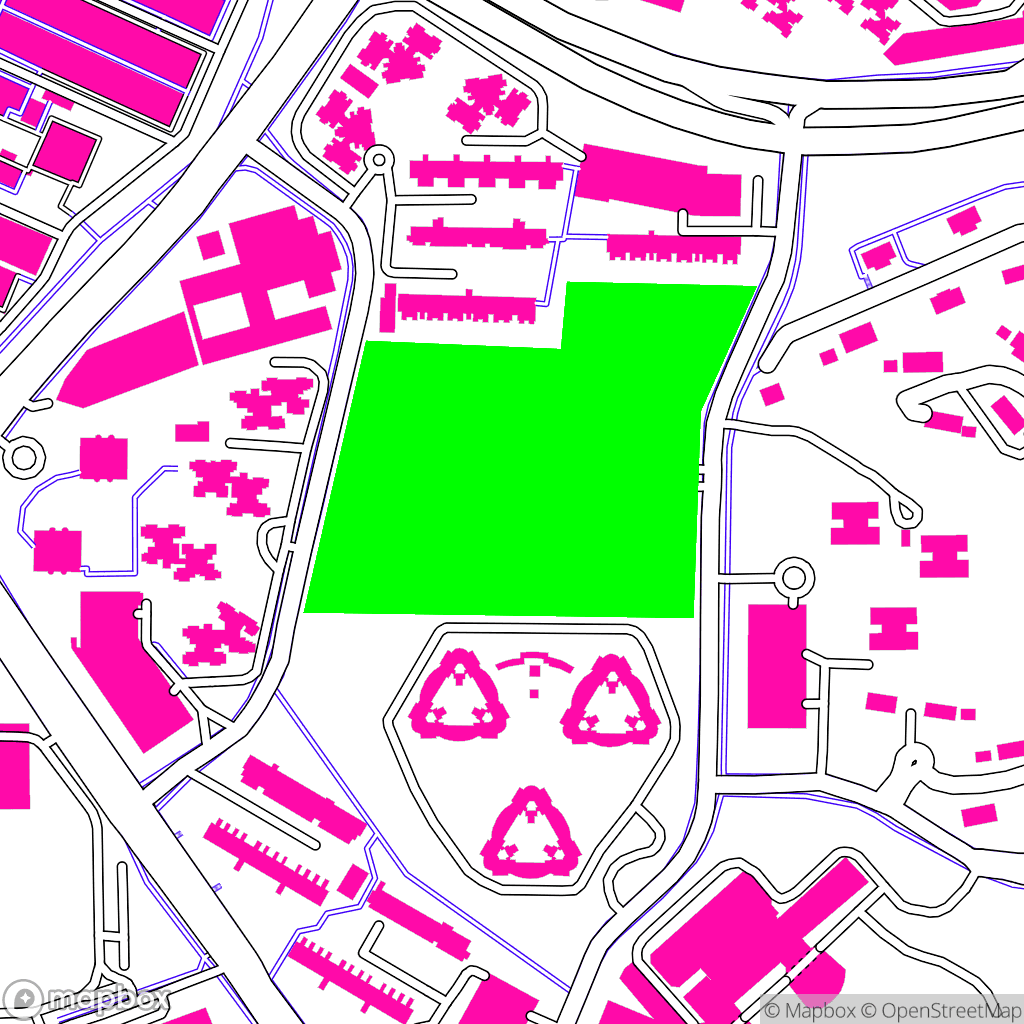
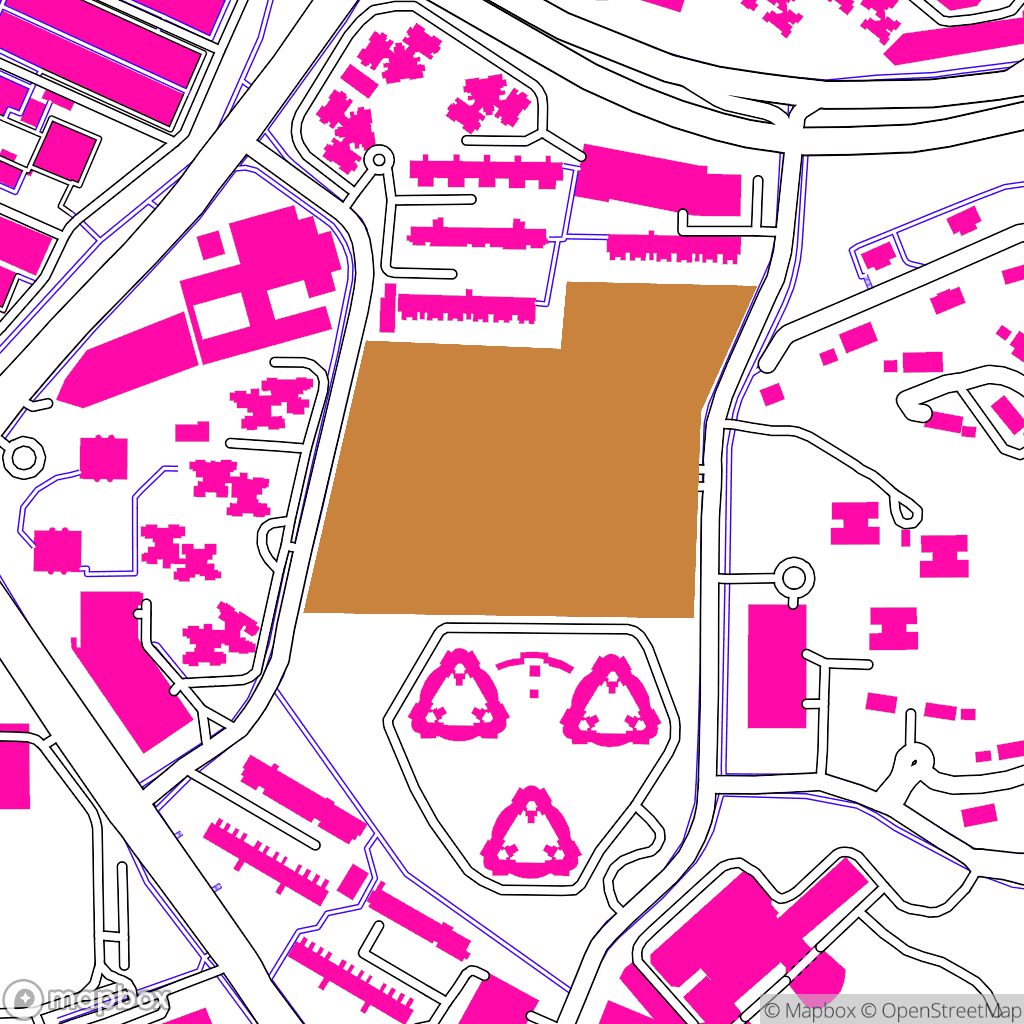
feat: rectangularise html

Changed region(s): [[0.2812, 0.25, 0.75, 0.625]]

diff --git a/Constraints/get_gen_images.py b/Constraints/get_gen_images.py
@@ -34,22 +34,22 @@ def rd_geojson_maker(geojson, gpr):
     encoded_geojson = requests.utils.quote(geojson_str)
     return encoded_geojson
 
-def buildings_geojson_maker(geojson):
-    geojson_feature = {
-        "type": "Feature",
-        "properties": {
-            "fill": "#00FF00",
-            "fill-opacity": "1.0",
-            "stroke-width" : 0,
-        },
-        "geometry": {
-            "type": "Polygon",
-            "coordinates": [geojson]
-        }
-    }
-    geojson_str = json.dumps(geojson_feature)
-    encoded_geojson = requests.utils.quote(geojson_str)
-    return encoded_geojson
+# def buildings_geojson_maker(geojson):
+#     geojson_feature = {
+#         "type": "Feature",
+#         "properties": {
+#             "fill": "#00FF00",
+#             "fill-opacity": "1.0",
+#             "stroke-width" : 0,
+#         },
+#         "geometry": {
+#             "type": "Polygon",
+#             "coordinates": [geojson]
+#         }
+#     }
+#     geojson_str = json.dumps(geojson_feature)
+#     encoded_geojson = requests.utils.quote(geojson_str)
+#     return encoded_geojson
 
 def og_geojson_maker(geojson):
     geojson_feature = {
@@ -69,7 +69,7 @@ def og_geojson_maker(geojson):
 
 def get_mapbox_image(geojson,center_coordinates, gpr):
     encoded_geojson_rd = rd_geojson_maker(geojson, gpr)
-    encoded_geojson_buildings = buildings_geojson_maker(geojson) # mask is always green
+    encoded_geojson_buildings = rd_geojson_maker(geojson, 1.4) # mask is always green
     encoded_geojson_og = og_geojson_maker(geojson)
     # call mapbox api
     access_token = 'sk.eyJ1IjoieWVuY2hpbmdwIiwiYSI6ImNsb3FrZ2U1czBqZjkycWx3cXVlbDRzOXkifQ.hTjiIfuNE7I-KhYqJfQkFw'  # Replace with your Mapbox access token
@@ -195,10 +195,62 @@ def extract_building_regions(arr, target_color, threshold=10):
     mask = (arr[:, :, :3] >= lower_bound) & (arr[:, :, :3] <= upper_bound)
     return np.all(mask, axis=-1)
 
-def extract_raw_buildings(gpr):
-    rd_rgb ,  building_rgb = rgb_colour(gpr)
+def approx_contours(contours, epsilon_factor=0.02):
+    approximated_contours = []
+    for contour in contours:
+        epsilon = epsilon_factor * cv2.arcLength(contour, True)
+        approx = cv2.approxPolyDP(contour, epsilon, True)
+        approximated_contours.append(approx)
+    return approximated_contours
+
+def remove_nested_rectangles(rectangles):
+    non_nested = []
+    for rect in rectangles:
+        x1, y1, w1, h1 = rect
+        nested = False
+        for other_rect in rectangles:
+            if other_rect == rect:
+                continue
+            x2, y2, w2, h2 = other_rect
+            if x1 >= x2 and y1 >= y2 and x1 + w1 <= x2 + w2 and y1 + h1 <= y2 + h2:
+                nested = True
+                break
+        if not nested:
+            non_nested.append(rect)
+    return non_nested
+
+def merge_rectangles(rectangles, distance_threshold):
+    merged = []
+    while rectangles:
+        a = rectangles.pop(0)
+        to_merge = [a]
+        i = 0
+        while i < len(rectangles):
+            b = rectangles[i]
+            if is_close(a, b, distance_threshold):
+                to_merge.append(b)
+                rectangles.pop(i)
+            else:
+                i += 1
+        xs = [x for x, _, w, _ in to_merge for x in [x, x+w]]
+        ys = [y for _, y, _, h in to_merge for y in [y, y+h]]
+        merged.append((min(xs), min(ys), max(xs) - min(xs), max(ys) - min(ys)))
+    return merged
+
+def is_close(rect1, rect2, threshold):
+    """
+    Check if two rectangles are close to each other based on a threshold.
+    """
+    x1, y1, w1, h1 = rect1
+    x2, y2, w2, h2 = rect2
+    center1 = (x1 + w1 / 2, y1 + h1 / 2)
+    center2 = (x2 + w2 / 2, y2 + h2 / 2)
+    distance = np.hypot(center1[0] - center2[0], center1[1] - center2[1])
+    return distance < threshold
+
+def extract_raw_buildings(gpr, rgb):
     og_path = "site.png"
-    mask_path = "site_masked_buildings.png"
+    mask_path = "rd_input.png"
     gen_rd1_path = 'gen_rd1.png'
 
     og_image = Image.open(og_path).convert('RGB')
@@ -212,30 +264,59 @@ def extract_raw_buildings(gpr):
     masked_image_array = np.array(masked_image)
     gen_rd1_array = np.array(gen_rd1)
     
-    site_mask = create_binary_mask(masked_image_array, rd_rgb)
-    Image.fromarray((site_mask * 255).astype(np.uint8)).save("debug_site_mask.png")
+    #extract buildings
+    site_mask = create_binary_mask(masked_image_array, rgb)
     gen_rd1_array[~site_mask] = [255,255,255]
-    rd1_building_mask = extract_building_regions(gen_rd1_array, [255,10,169])
-    Image.fromarray((rd1_building_mask * 255).astype(np.uint8)).save("debug_building_mask.png")
-
-    colored_paper = np.full((og_array.shape[0], og_array.shape[1], 3), [230, 228, 224], dtype=np.uint8)
-    colored_paper[rd1_building_mask] = [220,217,214]
-    Image.fromarray(colored_paper).save("debug_colored_paper.png")
+    rd1_building_mask = extract_building_regions(gen_rd1_array, [255,10,169]) # for rd its always pink buildings
+    Image.fromarray((rd1_building_mask * 255).astype(np.uint8)).save("debug_rd1_building_mask.png")
+    # put raw buildings onto og site
+    colored_paper = np.full((og_array.shape[0], og_array.shape[1], 3), [230, 228, 224], dtype=np.uint8) #light brown site
+    colored_paper[rd1_building_mask] = [220,217,214] #dark brown buildings
     og_array[site_mask] = colored_paper[site_mask]
-
     raw_gen_r1 = Image.fromarray(og_array)
     raw_gen_r1.save("raw_r1.png")
+
+    # get contours
+    building_mask = rd1_building_mask.copy()
+    building_mask = (building_mask * 255).astype(np.uint8)
+    Image.fromarray((building_mask).astype(np.uint8)).save("debug_building_mask.png")
+    blurred = cv2.GaussianBlur(building_mask, (5, 5), 0)
+    edges = cv2.Canny(blurred, 50, 150)
+    contours, _ = cv2.findContours(edges, cv2.RETR_TREE, cv2.CHAIN_APPROX_SIMPLE)
+    approximated_contours = approx_contours(contours)
+    original_approximated_contours = cv2.drawContours(building_mask.copy(), approximated_contours, -1, (255), 10)
+    blank_image_for_contour = np.zeros_like(building_mask)
+    approximated_contours_image = cv2.drawContours(blank_image_for_contour, approximated_contours, -1, (255), 5)
+    Image.fromarray((approximated_contours_image).astype(np.uint8)).save("debug_site_mask.png")
+
+    # blank_image_for_rectangle = np.zeros_like(building_mask) #
+    colored_paper2 = np.full((og_array.shape[0], og_array.shape[1], 3), [230, 228, 224], dtype=np.uint8) #light brown site
+    rectangle_color = (220,217,214)
+    rectangles = [cv2.boundingRect(contour) for contour in approximated_contours]
+    non_nested_rectangles = remove_nested_rectangles(rectangles)
+    distance_threshold = 10
+    merged_rectangles = merge_rectangles(non_nested_rectangles, distance_threshold)
+    min_width = 10
+    min_height = 10
+    for x, y, w, h in merged_rectangles:
+        if w >= min_width and h >= min_height:
+            cv2.rectangle(colored_paper2, (x, y), (x + w, y + h), rectangle_color, -1)
+    og_array[site_mask] = colored_paper2[site_mask]
+    rec_gen_r1 = Image.fromarray(og_array)
+    rec_gen_r1.save("rec_r1.png")
+
     return
 
 
 def main(geojson, center_coordinates, gpr):
-    get_mapbox_image(geojson, center_coordinates, gpr)
-    prep_buildings_model_input(gpr, "site_masked_buildings.png", "buildings_input.png")
-    get_gen_image("rd_input.png", "buildings_input.png")
-    extract_raw_buildings(gpr)
+    #get_mapbox_image(geojson, center_coordinates, gpr)
+    #prep_buildings_model_input(gpr, "site_masked_buildings.png", "buildings_input.png")
+    #get_gen_image("rd_input.png", "buildings_input.png")
+    rd_rgb ,  building_rgb = rgb_colour(gpr)
+    extract_raw_buildings(gpr, rd_rgb)
     return
 
 center_coordinates = (103.78378301045407, 1.30560345)
 geojson = [[103.784756, 1.3050353], [103.7847946, 1.3061424], [103.7850962, 1.3068138], [103.7840787, 1.3068373], [103.7840465, 1.3064766], [103.7830011, 1.3065207], [103.7826663, 1.3050645], [103.784756, 1.3050353]]
-tar_gpr = 1.4
+tar_gpr = 1.8
 main(geojson, center_coordinates, tar_gpr)
